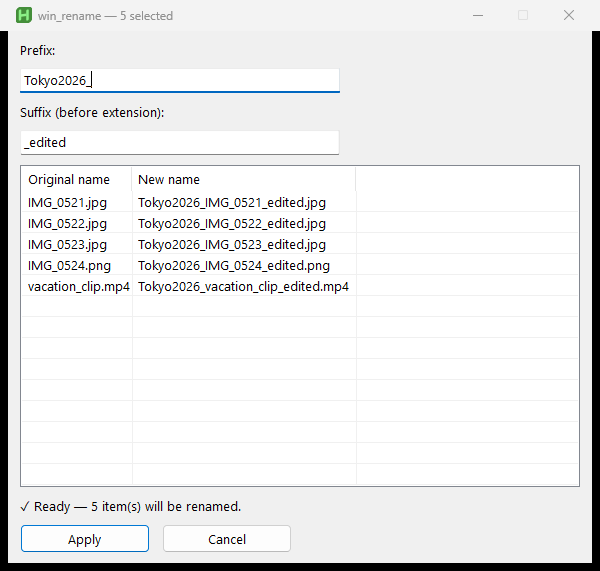
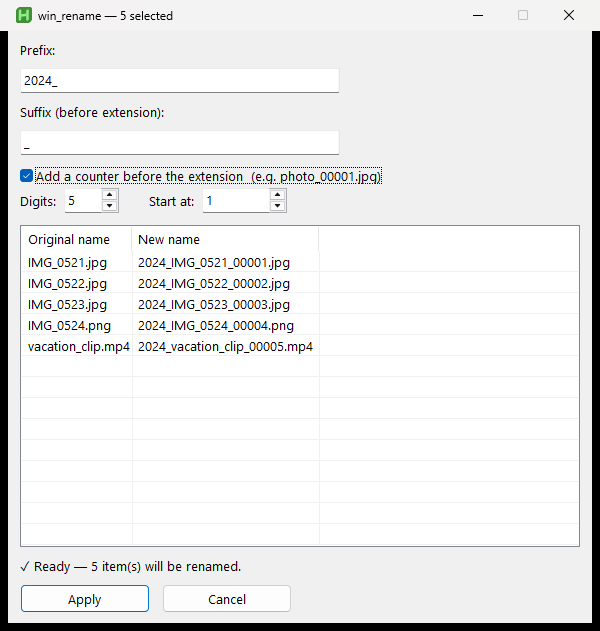
Add auto-increment counter (suffix numbering) with digit-padding + start spinners
New dialog controls: Add-counter checkbox, Digits (UpDown), Start at (UpDown). Counter is inserted after the suffix, before the extension (e.g. file_00001.png). BuildNewName/BuildNewPath/DoRename/ValidateAffix gained optional, backward-compatible params; +9 tests (41 total). README + demo media updated.

diff --git a/README.md b/README.md
@@ -83,6 +83,7 @@ Prefer the raw `.ahk`? You just need AutoHotkey v2 — a normal program installe
 ## 🧠 Features
 
 - 🏷️ **Prefix + suffix in one shot** — suffix lands *before* the extension
+- 🔢 **Auto-increment counter** — append `00001`, `00002`, … before the extension; set the zero-padding & start number with the ▲▼ spinners
 - 👀 **Live preview** — see `old → new` for every file as you type
 - 🛡️ **Safe by default** — blocks illegal characters, never overwrites existing files, isolates per-file failures
 - 🪟 **Windows 11 tab-aware** — reads the selection from the *active* Explorer tab, not a random one
@@ -172,7 +173,7 @@ Tray icon → **Add to Startup**. Done. (Undo with **Remove from Startup**.)
 
 ## 🤝 Contributing
 
-Issues and PRs welcome! Ideas: numbering, find & replace, case conversion, regex mode.
+Issues and PRs welcome! Ideas: find & replace, case conversion, regex mode, drag-to-reorder.
 
 ## ⭐ Like it?
 